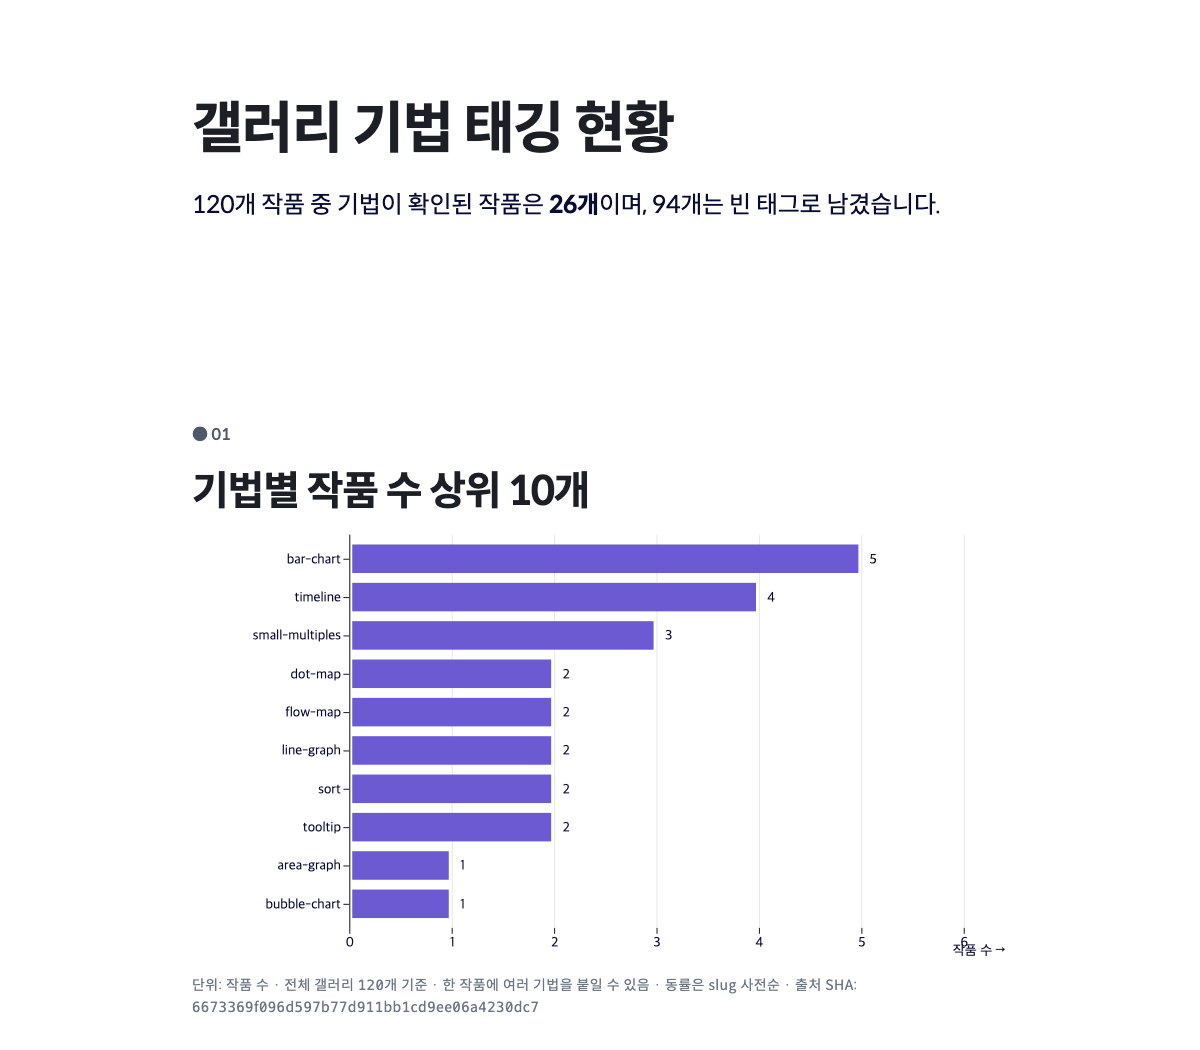
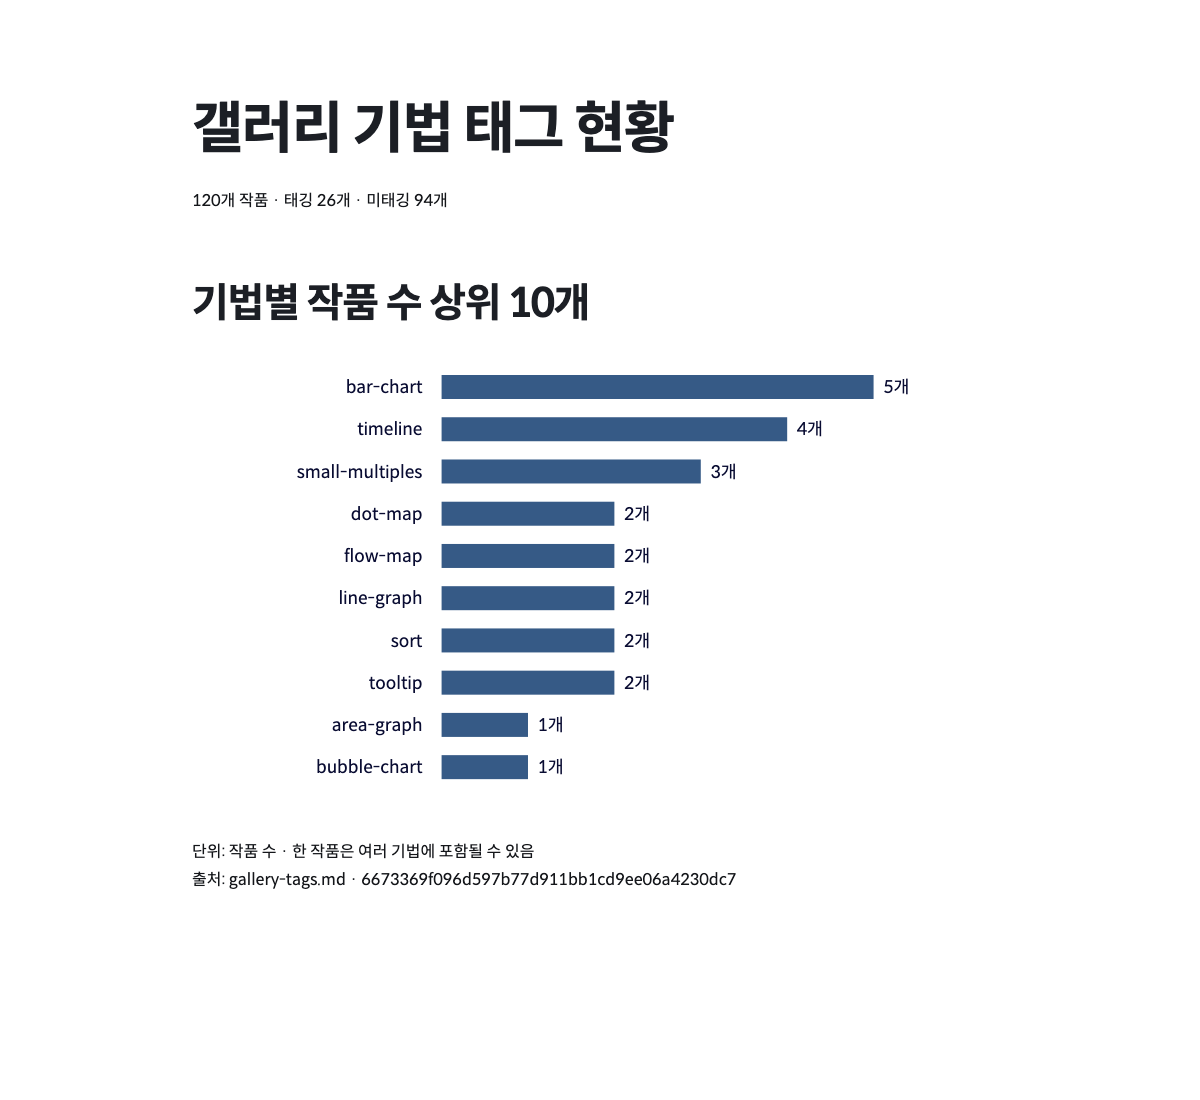
assets: issue 3 gallery tag evidence

diff --git a/issue-3/evidence.md b/issue-3/evidence.md
@@ -1,99 +1,22 @@
-# 이슈 3 갤러리 태깅 측정 근거
+# 이슈 3 태그 집계 근거
 
-- source SHA: `6673369f096d597b77d911bb1cd9ee06a4230dc7`
-- 집계 범위: 위 SHA의 `references/vis/gallery-tags.md`에 있는 갤러리 작품 120개 전체.
-- 단위: 작품 수. 한 작품은 여러 기법에 중복 집계될 수 있다. 동률은 slug 사전순.
-- 원자료: [해당 커밋의 전체 태그 파일](https://github.com/Walnutbrown/visualization/blob/6673369f096d597b77d911bb1cd9ee06a4230dc7/references/vis/gallery-tags.md). 원본 응답은 HTML 앞부분을 확인했고, 형태의 근거가 부족한 작품은 태그를 비웠다.
-- 명령: 저장소에서 아래 코드를 `python3`으로 실행한다.
+- 원자료: `references/vis/gallery-tags.md`, source SHA `6673369f096d597b77d911bb1cd9ee06a4230dc7`
+- 범위: 갤러리 작품 120행. 단위: 작품 수. 한 작품에 여러 기법을 태그할 수 있다.
+- 결과: 태깅 26개, 미태깅 94개. 10위에서 동률은 slug 사전순으로 선택한다.
+- 상위 10개: bar-chart 5, timeline 4, small-multiples 3, dot-map 2, flow-map 2, line-graph 2, sort 2, tooltip 2, area-graph 1, bubble-chart 1.
+- PNG: 위 원자료를 SVG 막대 그래프로 구성하고 `python3 scripts/assemble.py /tmp/vis-issue3/chart.html /tmp/vis-issue3/chart-assembled.html --title '갤러리 기법 태그 현황'`로 조립 후 Chrome headless로 캡처했다.
 
-```python
-import collections, json, re, subprocess
-source='6673369f096d597b77d911bb1cd9ee06a4230dc7'
-s=subprocess.check_output(['git','show',source+':references/vis/gallery-tags.md'],text=True)
-rows=[line.split(' | ') for line in s.splitlines() if line.startswith('| `')]
-counts=collections.Counter(tag for row in rows for tag in re.findall(r'`([^`]+)`',row[1]))
-print(json.dumps({'tagged':sum(row[1]!='-' for row in rows),'empty':sum(row[1]=='-' for row in rows),'total':len(rows),'top10':sorted(counts.items(),key=lambda p:(-p[1],p[0]))[:10]},ensure_ascii=False,indent=2))
+재현 집계 명령 (해당 SHA 체크아웃에서 실행):
+
+```sh
+python3 - <<'PY'
+from collections import Counter
+from pathlib import Path
+import re
+rows = [x.split(' | ') for x in Path('references/vis/gallery-tags.md').read_text().splitlines() if x.startswith('| `')]
+counts = Counter(t for row in rows for t in re.findall(r'`([^`]+)`', row[1]))
+print('전체:', len(rows), '태깅:', sum(r[1] != '-' for r in rows), '미태깅:', sum(r[1] == '-' for r in rows))
+for slug, n in sorted(counts.items(), key=lambda x: (-x[1], x[0]))[:10]:
+    print(slug, n)
+PY
 ```
-
-결과:
-
-```json
-{
-  "tagged": 26,
-  "empty": 94,
-  "total": 120,
-  "top10": [
-    [
-      "bar-chart",
-      5
-    ],
-    [
-      "timeline",
-      4
-    ],
-    [
-      "small-multiples",
-      3
-    ],
-    [
-      "dot-map",
-      2
-    ],
-    [
-      "flow-map",
-      2
-    ],
-    [
-      "line-graph",
-      2
-    ],
-    [
-      "sort",
-      2
-    ],
-    [
-      "tooltip",
-      2
-    ],
-    [
-      "area-graph",
-      1
-    ],
-    [
-      "bubble-chart",
-      1
-    ]
-  ]
-}
-```
-
-## 태그가 있는 원자료 행
-
-| 작품 slug | 기법 slug | 원본 접근 |
-|---|---|---|
-| `playfair-commercial-political-atlas-1786` | `line-graph`, `bar-chart` | HTML 응답 |
-| `snow-cholera-map-1854` | `dot-map` | HTML 응답 |
-| `nightingale-rose-diagram-1858` | `nightingale-rose` | HTML 응답 |
-| `minard-napoleon-march-1869` | `flow-map` | HTML 응답 |
-| `muybridge-horse-in-motion-1878` | `small-multiples` | HTML 응답 |
-| `gapminder-wealth-health-nations-2006` | `bubble-chart`, `playback-scrub` | HTML 응답 |
-| `pudding-film-dialogue-2017` | `dot-matrix-chart` | HTML 응답 |
-| `nyt-extremely-detailed-election-map-2021` | `choropleth`, `semantic-zoom` | 접근 제한: HTTP Error 403 |
-| `3121-desperate-journeys-2019` | `unit-chart` | HTML 응답 |
-| `codex-atlanticus-2019` | `faceted-filter`, `sort` | HTML 응답 |
-| `fewer-fireworks-for-celebration-better-air-quality-2019` | `radial-bar-chart`, `small-multiples`, `sort` | HTML 응답 |
-| `flowmap-blue-2019` | `flow-map` | HTML 응답 |
-| `visualizing-the-history-of-fugazi-2019` | `bar-chart`, `timeline` | HTML 응답 |
-| `wedding-data-viz-2019` | `network-diagram` | 접근 제한: HTTP Error 403 |
-| `precision-mapping-to-end-child-deaths-2022` | `bubble-map` | HTML 응답 |
-| `hong-kong-protests-first-100-days-2022` | `timeline` | HTML 응답 |
-| `boreal-ablaze-2023` | `line-graph`, `bar-chart` | HTML 응답 |
-| `fentanyl-is-fast-cheap-and-deadly-2023` | `bar-chart` | HTML 응답 |
-| `pele-s-greatest-achievements-2023` | `timeline` | HTML 응답 |
-| `how-do-we-compare-2023` | `text-search-filter`, `tooltip` | HTML 응답 |
-| `modern-art-movements-2023` | `timeline` | HTML 응답 |
-| `screens-of-august-2023` | `stacked-bar-chart` | HTML 응답 |
-| `beyond-crisis-lives-saved-2024` | `bar-chart`, `tooltip` | HTML 응답 |
-| `2024-u-s-election-vote-by-vote-2024` | `dot-map` | 접근 제한: 타임아웃 |
-| `is-the-love-song-dying-2024` | `area-graph` | HTML 응답 |
-| `total-eclipse-2024` | `small-multiples` | HTML 응답 |
